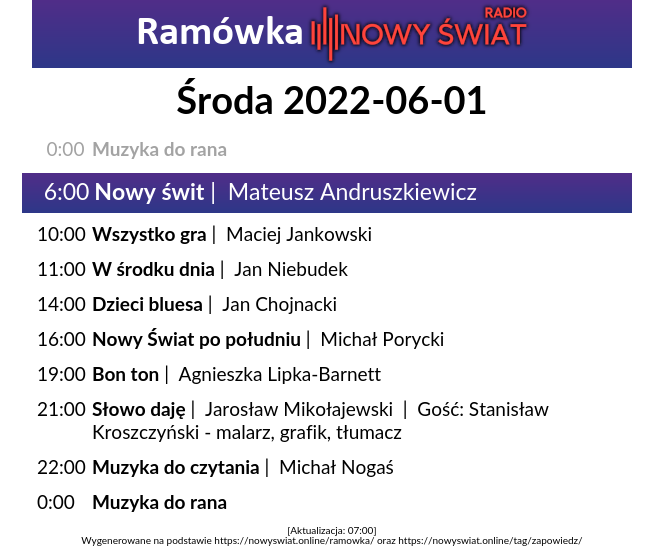
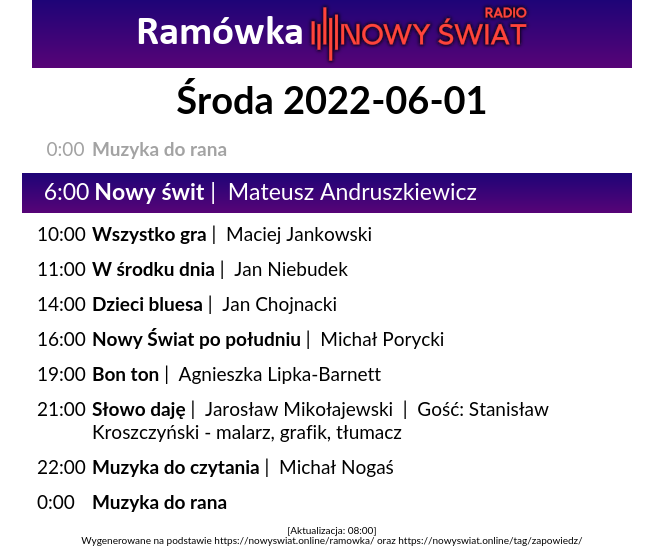
Regular auto-commit at 08:00:07 on 01/06/2022

Changed region(s): [[0.0303, 0.0, 0.9697, 0.1245], [0.0303, 0.3114, 0.9697, 0.4048]]

diff --git a/ramowka.html b/ramowka.html
@@ -26,7 +26,7 @@ img {
     margin: auto;
     text-align: center;
     background-color: #000;
-    background-image: linear-gradient(to top, #2D3788 0%, #502D88 100%);
+    background-image: linear-gradient(180deg, #1E0477 0%, #570477 100%);
 }
 .time {
     display: block;
@@ -85,7 +85,7 @@ h1 {
 
 
         <div id="container"
- style="font-size: larger; background-color: #2D3788; color: white; padding: 5px 5px; text-align: left;" class="image">
+ style="font-size: larger; background-color: #1E0477; color: white; padding: 5px 5px; text-align: left;" class="image">
             <div class="time"><p >&nbsp;&nbsp;6:00</p></div>
             <div class="values">
             <p >
@@ -188,7 +188,7 @@ h1 {
             </div>
         </div>
 
-<p class="footer">[Aktualizacja: 07:00]<br/>Wygenerowane na podstawie https://nowyswiat.online/ramowka/ oraz https://nowyswiat.online/tag/zapowiedz/</p>
+<p class="footer">[Aktualizacja: 08:00]<br/>Wygenerowane na podstawie https://nowyswiat.online/ramowka/ oraz https://nowyswiat.online/tag/zapowiedz/</p>
 </div>
 </body>
 </html>

diff --git a/schedule.html b/schedule.html
@@ -84,7 +84,7 @@ img {
     <tr>
         <th colspan="9">
         <div class="container">
-          <div class="image"><img src="static/logo.png"><br/>Aktualizacja: 2022-06-01 07:00</div>
+          <div class="image"><img src="static/logo.png"><br/>Aktualizacja: 2022-06-01 08:00</div>
         </div>
         </th>
     </tr>
